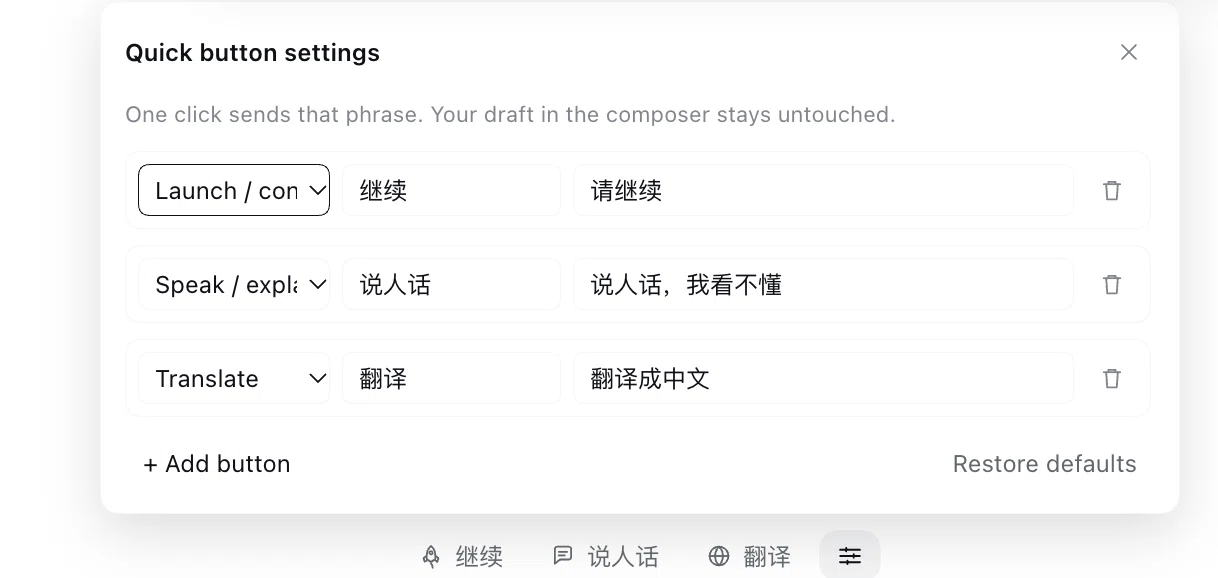
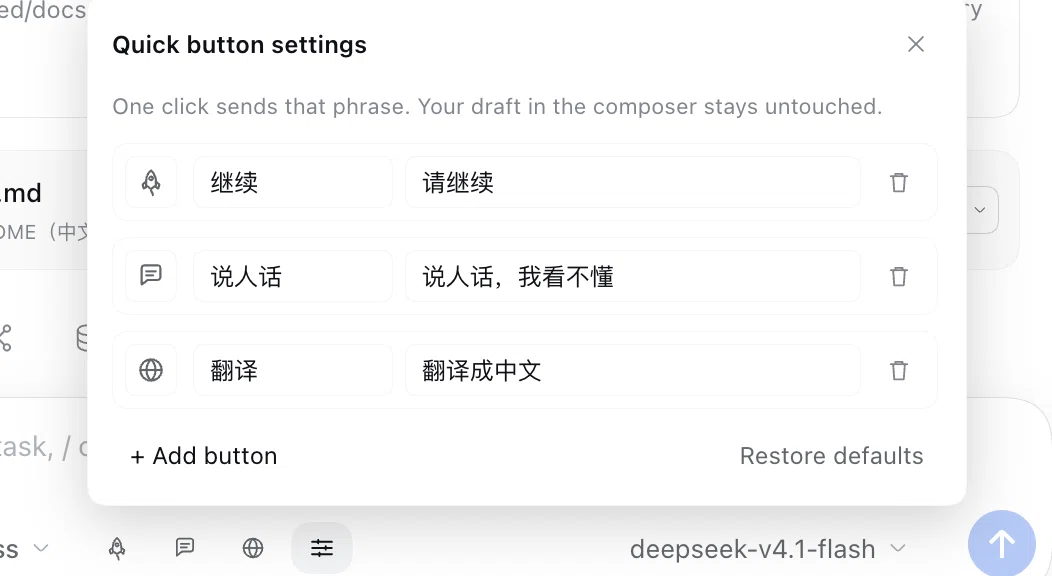
docs: 换用图标选择器改版后的设置面板截图（0.2.1）
旧截图还是原生下拉框的版本，和新 UI 对不上。

diff --git a/CHANGELOG.md b/CHANGELOG.md
@@ -1,5 +1,10 @@
 # Changelog
 
+## 0.2.1 — 文档更新
+
+- README 换用图标选择器改版后的设置面板截图（旧图还是原生下拉框版本）
+- 无代码变更
+
 ## 0.2.0 — 首次开源
 
 - 单按钮升级为一排可自定义的快捷语按钮（默认：请继续 / 说人话，我看不懂 / 翻译成中文）
